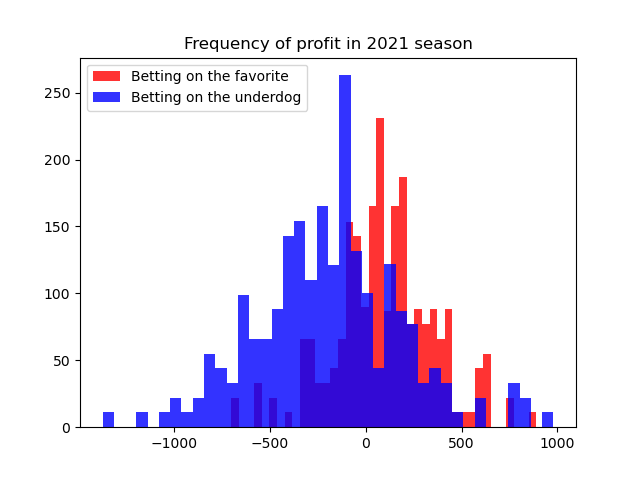
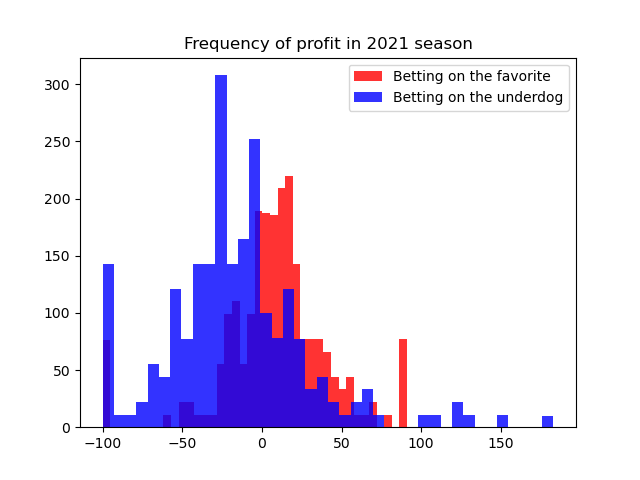
normalized for amount of games in a day

diff --git a/main.py b/main.py
@@ -15,7 +15,9 @@ print(data.info())
 profit_fav = [0]
 profit_und = [0]
 prev_date = data.iloc[0,0]
+day_games = 0
 for i in range(int(len(data)/2)):
+    day_games += 1
     last_index = len(profit_und) - 1
     t1odd = data.iloc[2*i, 2]
     t2odd = data.iloc[2*i + 1, 2]
@@ -36,8 +38,12 @@ for i in range(int(len(data)/2)):
             profit_und[last_index] -= 100
     if data.iloc[2*i+1,0] != prev_date:
         prev_date = data.iloc[2*i+1,0]
+        profit_fav[last_index] /= day_games
+        profit_und[last_index] /= day_games
         profit_fav.append(0)
         profit_und.append(0)
+        day_games = 0
+
 
 plt.figure()
 plt.hist(profit_fav, color="red",bins=40,label="Betting on the favorite",alpha=.80)
